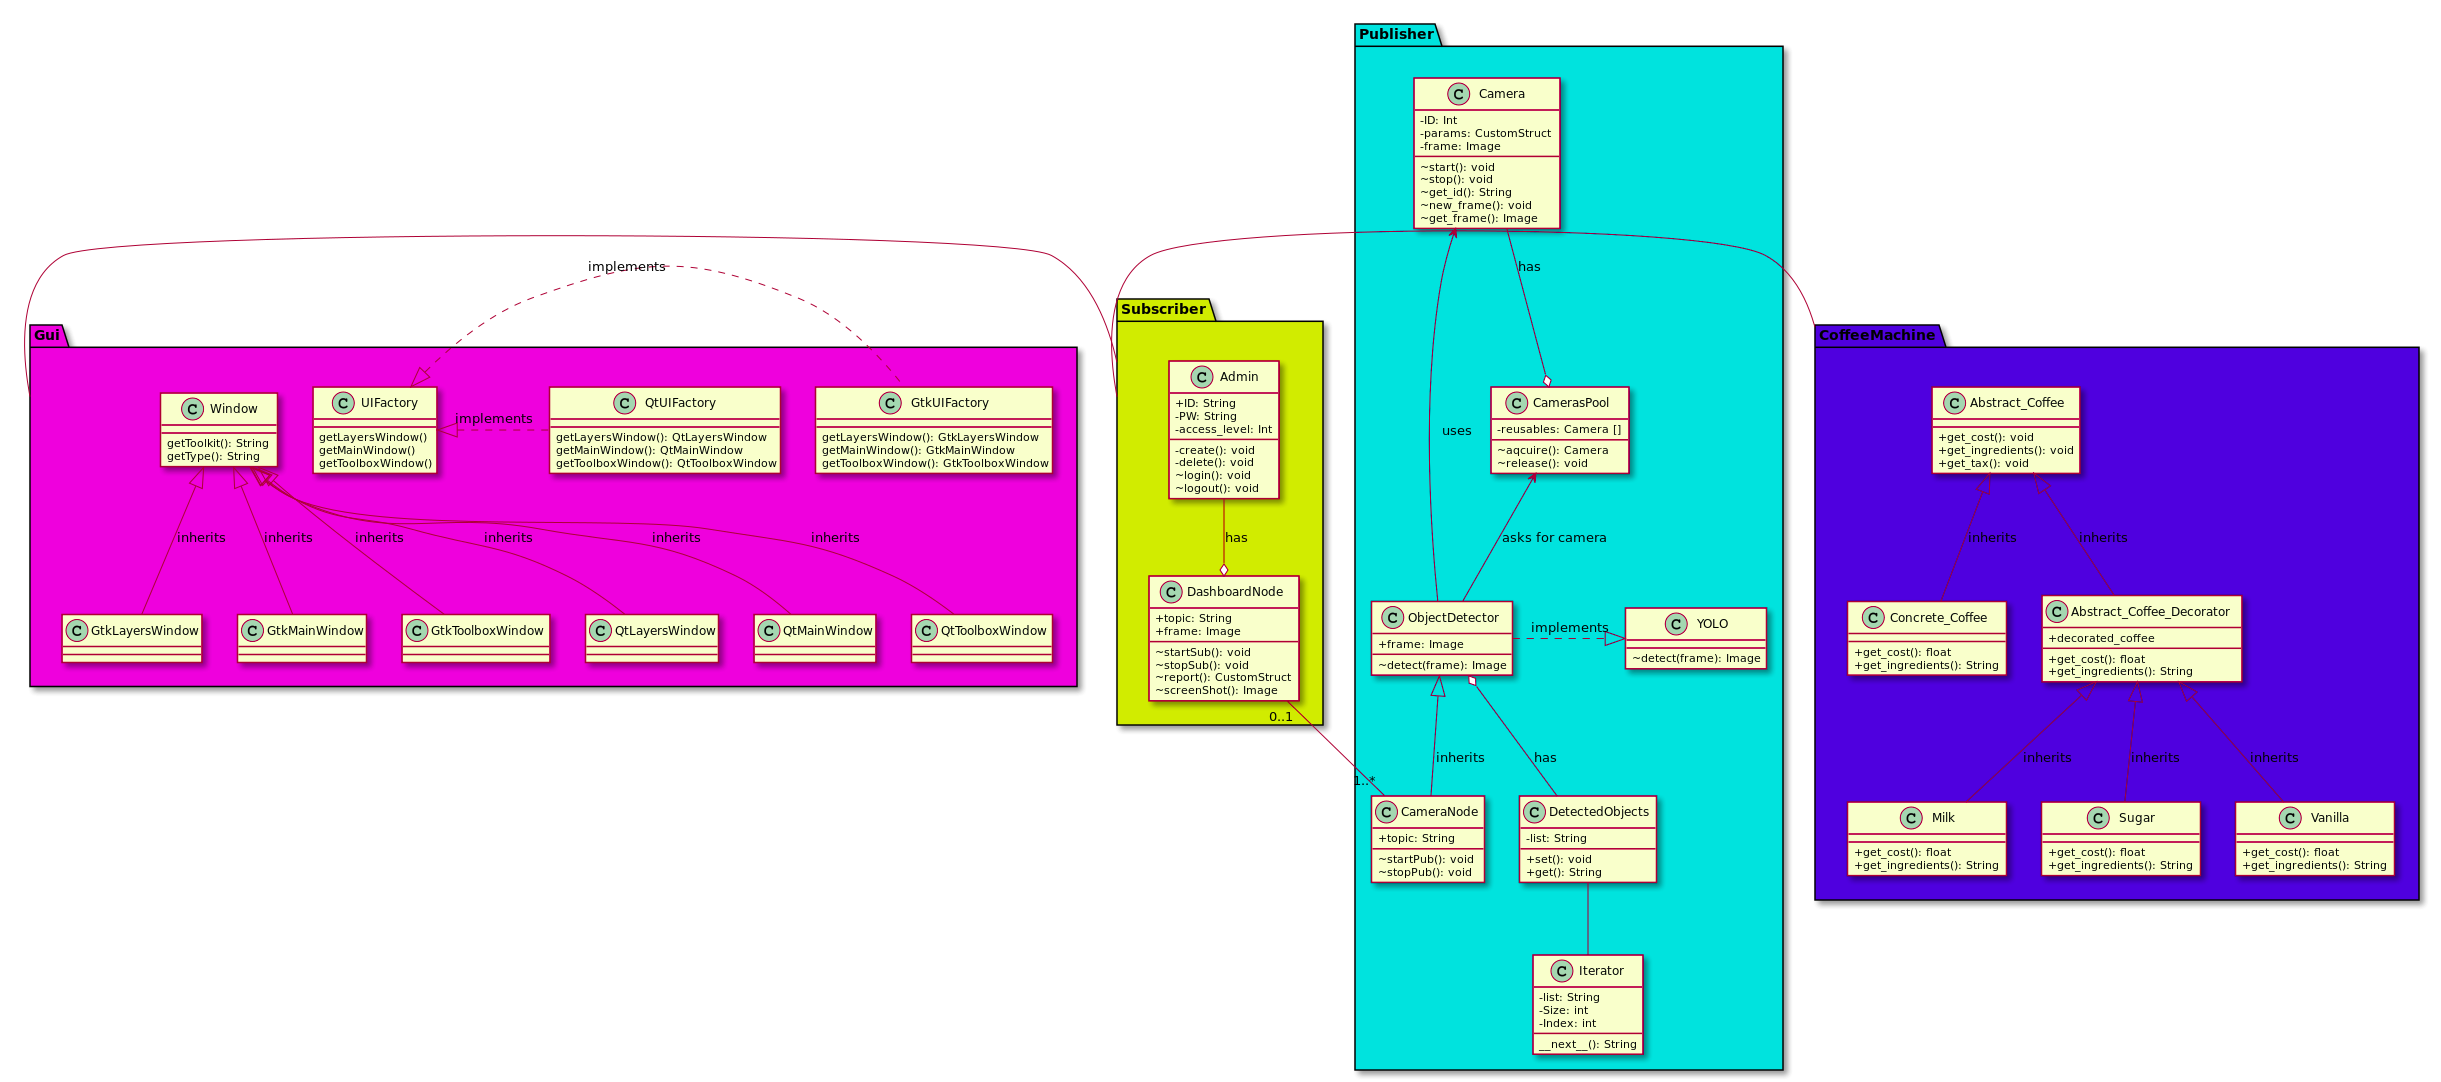
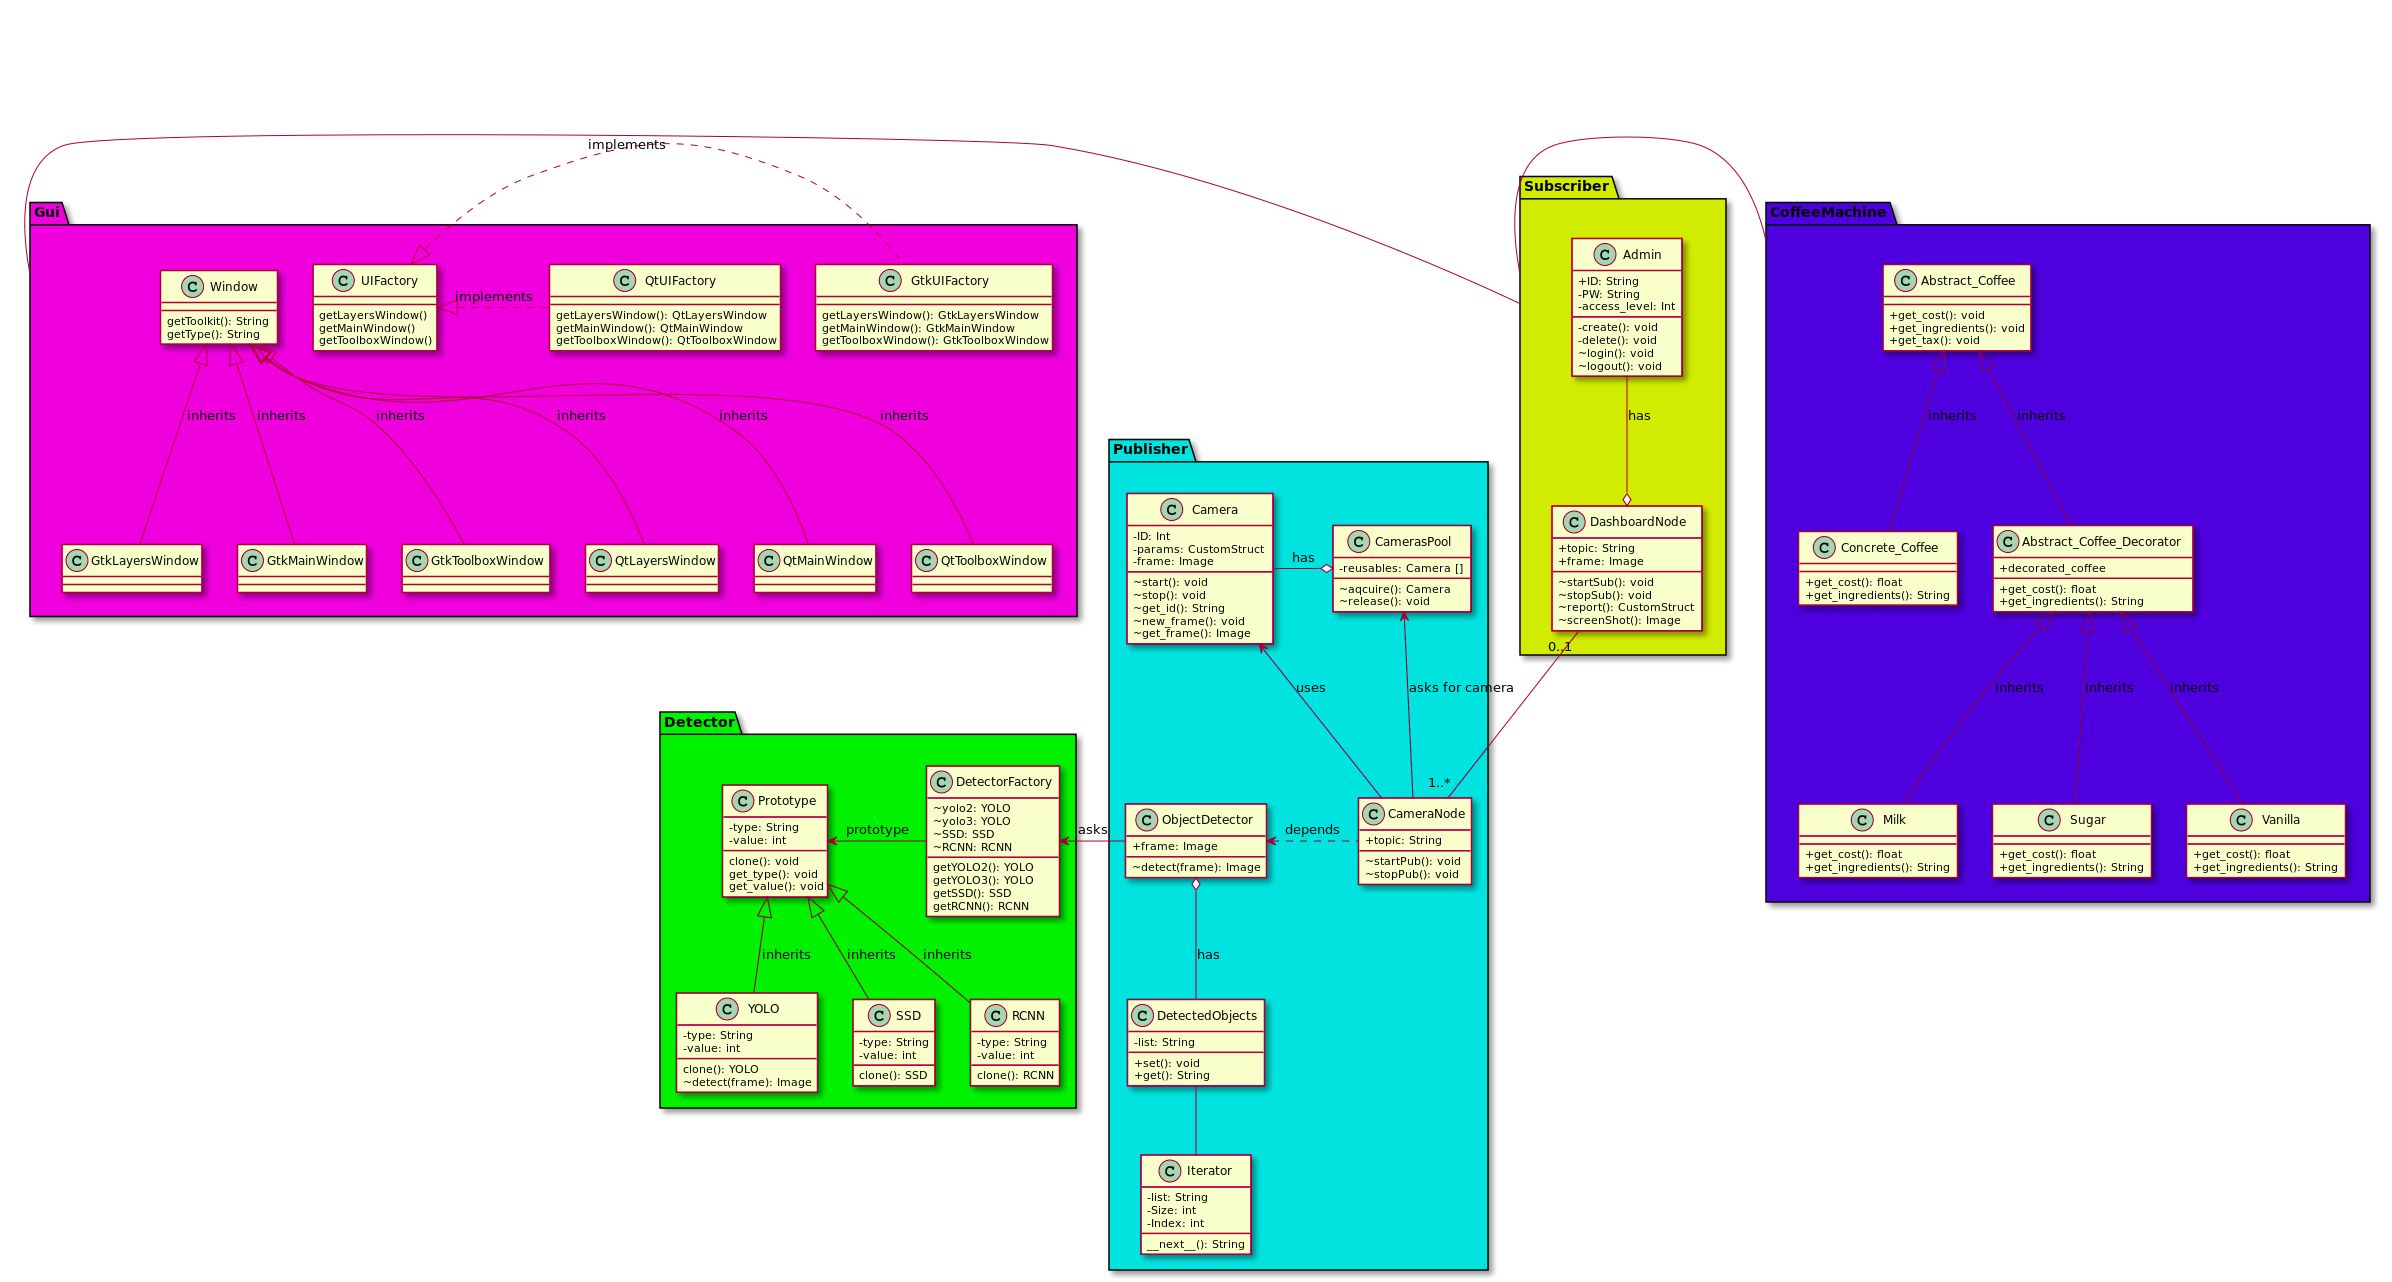
added prototype pattern

diff --git a/src/prototype/prototype.py b/src/prototype/prototype.py
@@ -1,0 +1,97 @@
+import copy
+
+class Prototype:
+
+   _type = None
+   _value = None
+
+   def clone(self):
+      pass
+
+   def getType(self):
+      return self._type
+
+   def getValue(self):
+      return self._value
+
+class YOLO(Prototype):
+
+   def __init__(self, number):
+      self._type = "YOLO"
+      self._value = number
+
+   def clone(self):
+      return copy.copy(self)
+
+class SSD(Prototype):
+
+   """ Concrete prototype. """
+
+   def __init__(self, number):
+      self._type = "SSD"
+      self._value = number
+
+   def clone(self):
+      return copy.copy(self)
+
+class RCNN(Prototype):
+
+   """ Concrete prototype. """
+
+   def __init__(self, number):
+      self._type = "RCNN"
+      self._value = number
+
+   def clone(self):
+      return copy.copy(self)
+
+class DetectorFactory:
+
+   """ Manages prototypes.
+   Static factory, that encapsulates prototype
+   initialization and then allows instatiation
+   of the classes from these prototypes.
+   """
+
+   __yolo2 = None
+   __yolo3 = None
+   __ssd = None
+   __rcnn = None
+
+   @staticmethod
+   def initialize():
+      DetectorFactory.__yolo2 = YOLO(2)
+      DetectorFactory.__yolo3 = YOLO(3)
+      DetectorFactory.__ssd = SSD(1)
+      DetectorFactory.__rcnn = RCNN(1)
+
+   @staticmethod
+   def getYOLO2():
+      return DetectorFactory.__yolo2.clone()
+
+   @staticmethod
+   def getYOLO3():
+      return DetectorFactory.__yolo3.clone()
+
+   @staticmethod
+   def getSSD():
+      return DetectorFactory.__ssd.clone()
+
+   @staticmethod
+   def getRCNN():
+      return DetectorFactory.__rcnn.clone()
+
+if __name__ == "__main__":
+   DetectorFactory.initialize()
+   
+   detector = DetectorFactory.getYOLO2()
+   print("%s: %s" % (detector.getType(), detector.getValue()))
+   
+   detector = DetectorFactory.getYOLO3()
+   print("%s: %s" % (detector.getType(), detector.getValue()))
+   
+   detector = DetectorFactory.getSSD()
+   print("%s: %s" % (detector.getType(), detector.getValue()))
+   
+   detector = DetectorFactory.getRCNN()
+   print("%s: %s" % (detector.getType(), detector.getValue()))
